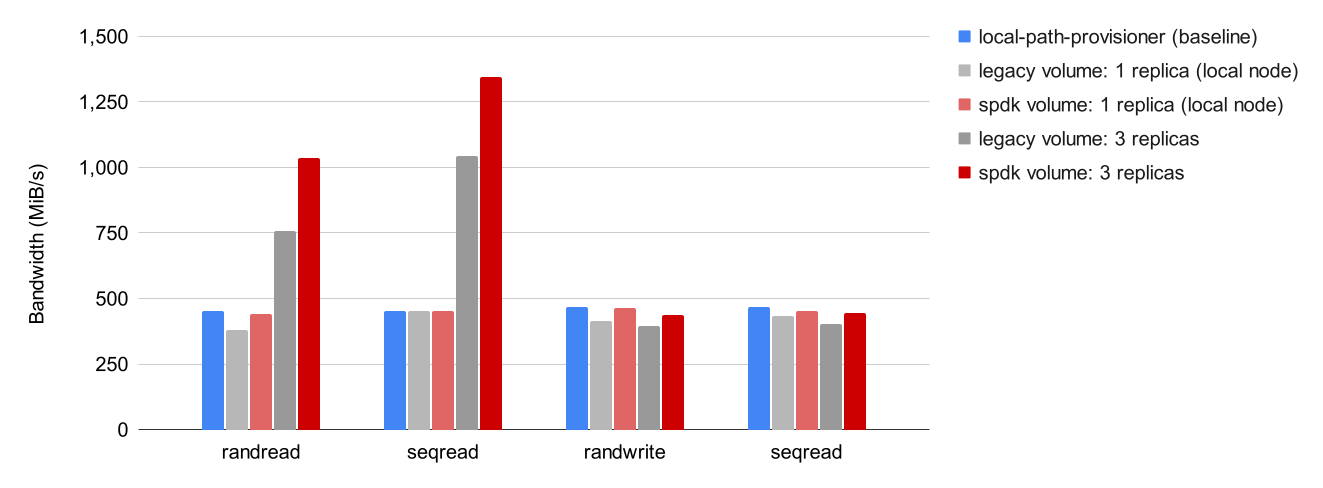
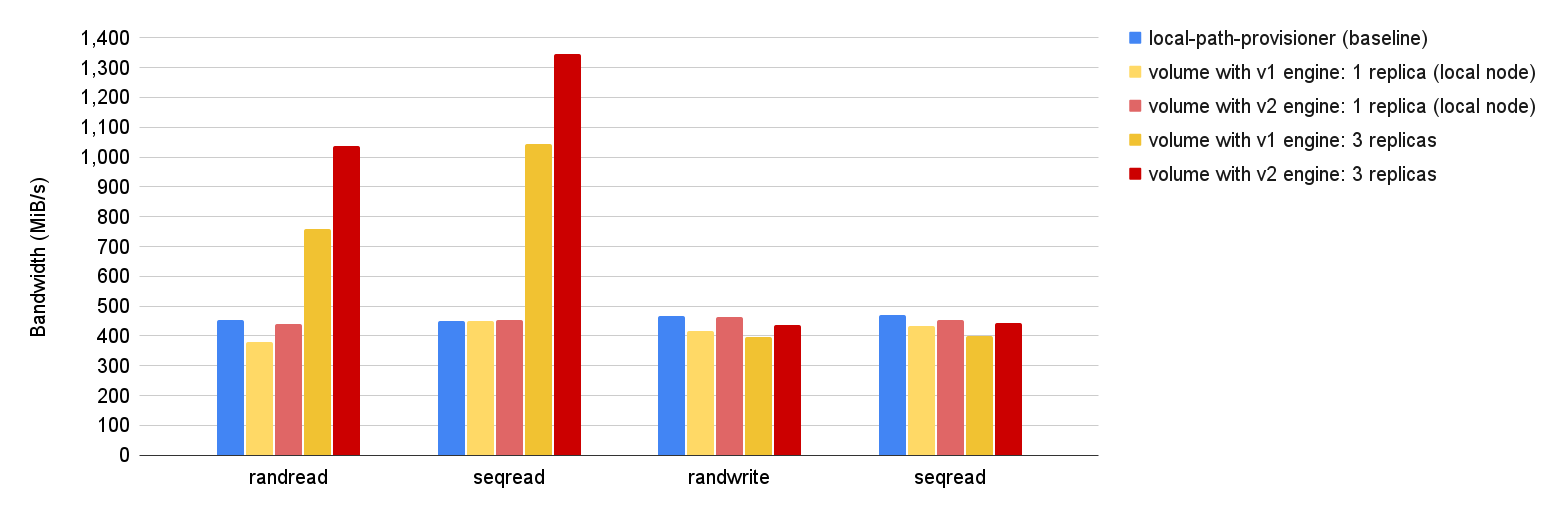
spdk: update legends in benchmark results

diff --git a/content/docs/1.5.0/spdk/performance-benchmark.md b/content/docs/1.5.0/spdk/performance-benchmark.md
@@ -15,7 +15,7 @@
 
 ## Benchmarking Tools
 
-- Utilize [kbench](https://github.com/yasker/kbench) a the benchmarking tool.
+- Utilize [kbench](https://github.com/yasker/kbench) as the benchmarking tool.
 
 ## Result
 
